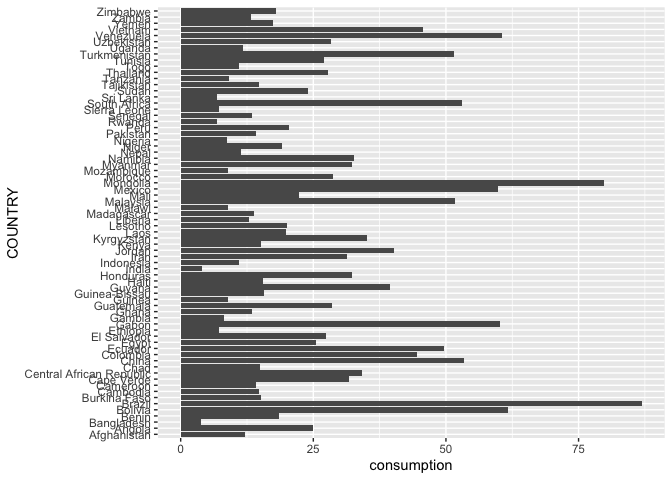
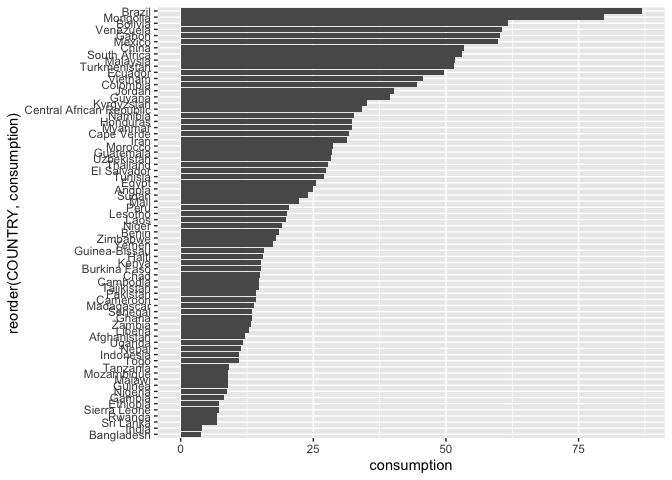
methods done

Changed region(s): [[0.2812, 0.0, 0.9688, 0.9375], [0.0, 0.0, 0.25, 0.9375]]

diff --git a/Midterm/Midterm.md b/Midterm/Midterm.md
@@ -5,103 +5,71 @@ due 10/22/2021
 
 ## Introduction
 
+(provide background on your dataset and formulated question)
+
 ## Methods
+
+In order to answer the main question, multiple datasets were acquired
+from various sources. The data can be organized into 3 categories:
+anemia data, meat consumption data, and country data.
+
+# Anemia Data
+
+The data sets related to the prevalence of anemia in 15-49 year old
+women in low and middle income countries (LMIC) were exported from
+ghdx.healthdata.org. This data was collected by the Institute of Health
+Metrics and Evaluation with the funding from the Bill and Melinda Gates
+Foundation between January 2000 and December 2019. It was published in
+2021. There were three different csv files in this set, one for mild
+anemia, one for moderate anemia, and one for severe anemia. The data
+sets detailed the prevalence of each kind of anemia every year in 82
+LMICs at a 5x5km level. These csv’s were downloaded from the site
+manually and read into data tables in the R code. From there, variable
+names were changed to improve ease of merging. Instead of keeping the
+data at the 5x5km level, the mean anemia prevalence was found by country
+and year. Finally, the three data tables (moderate, mild, and severe)
+were merged into the data table “TotalAnemia”. This table included all
+82 countries and the mild, moderate, and severe percentages of anemia
+prevalence for every year from 2000 to 2019. No values were found to be
+missing or unreasonable.
+
+# Meat Consumption Data
+
+The data set related to meat food supply quantity in terms of kilograms
+per capita per year was exported from ourworldindata.org. This data was
+sourced from data published by the United Nations Food and Agricultural
+Organization (FAO) in 2020. The data was collected from 1961 to 2017.
+This csv file was also exported manually from the website and read into
+a data table within the R code. It contains data from 215 countries and
+was not found to have any missing values. The data only had 4 variables:
+the country name, 3 letter country code, year, and meat food supply
+quantity; these variables were renamed for ease of use and to match the
+names of the anemia data table.
+
+# country data & final data table
+
+Following preliminary data cleanup and wrangling, the TotalAnemia and
+meatData data tables were merged together by country and year to create
+a new data table: TotalData. All observations from the TotalAnemia data
+table were kept. To add a final level of analysis, a country code data
+set was downloaded and read in by the R code. This csv file was found on
+datahub.io, and lists every country, along with its three letter country
+code, continent, and other identifying information; only the three
+letter code and continent were selcted for. This country code data set
+was then merged with the TotalData set by code, so that every
+observation now included the continent as well.
+
+Final data cleanup and wrangling was now performed. Any observations
+missing meat consumption values were removed. The data table was now
+left with data for 69 LMICs, for a total of 1258 observations. When
+looking at summaries and visualizations of the various variables, no
+data looked unreasonable. The results of these summary statistics are
+printed below:
 
 ## Preliminary Results
 
-``` r
-ggplot(TotalData,aes(x=consumption, y=(mildPct+modPct+sevPct)*100)) +
-  geom_point() +
-  geom_smooth(method= "lm") +
-  ggtitle("Visualizing the Relationship between Anemia & Meat Consumption in Underdeveloped Countries")+
-  ylab('Total Percentage of Women 15-49 with Anemia of any Severity')+
-  xlab('Meat Consumption (kg/capital/year')
-```
-
-    ## `geom_smooth()` using formula 'y ~ x'
-
-![](Midterm_files/figure-gfm/unnamed-chunk-1-1.png)<!-- -->
-
-``` r
-TotalData %>%
-  filter("Asia"== CONTINENT) %>%
-  ggplot(aes(x=year, y=(mildPct+modPct+sevPct)*100)) +
-    facet_wrap(~COUNTRY, nrow= 8) +
-    geom_point() +
-    geom_smooth(method= "lm")+
-    ggtitle("Anemia in Young Women in underdeveloped Asian Countries")+
-    theme(axis.text.x = element_text(angle = 45))+
-    ylab('Total Percentage of Women 15-49 with Anemia of any Severity')
-```
-
-    ## `geom_smooth()` using formula 'y ~ x'
-
-![](Midterm_files/figure-gfm/unnamed-chunk-1-2.png)<!-- -->
-
-``` r
-TotalData %>%
-  filter("Africa"== CONTINENT) %>%
-  ggplot(aes(x=year, y=(mildPct+modPct+sevPct)*100)) +
-    facet_wrap(~COUNTRY, nrow= 8) +
-    geom_point() +
-    geom_smooth(method= "lm")+
-    ggtitle("Anemia in Young Women in underdeveloped African Countries")+
-    theme(axis.text.x = element_text(angle = 45))+
-    ylab('Total Percentage of Women 15-49 with Anemia of any Severity')
-```
-
-    ## `geom_smooth()` using formula 'y ~ x'
-
-![](Midterm_files/figure-gfm/unnamed-chunk-1-3.png)<!-- -->
-
-``` r
-TotalData %>%
-  filter("South America"== CONTINENT) %>%
-  ggplot(aes(x=year, y=(mildPct+modPct+sevPct)*100)) +
-    facet_wrap(~COUNTRY, nrow= 3) +
-    geom_point() +
-    geom_smooth(method= "lm")+
-    ggtitle("Anemia in Young Women in underdeveloped South American Countries")+
-    theme(axis.text.x = element_text(angle = 45))+
-    ylab('Total Percentage of Women 15-49 with Anemia of any Severity')
-```
-
-    ## `geom_smooth()` using formula 'y ~ x'
-
-![](Midterm_files/figure-gfm/unnamed-chunk-1-4.png)<!-- -->
-
-``` r
-TotalData %>%
-  filter("North America"== CONTINENT) %>%
-  ggplot(aes(x=year, y=(mildPct+modPct+sevPct)*100)) +
-    facet_wrap(~COUNTRY, nrow= 3) +
-    geom_point() +
-    geom_smooth(method= "lm")+
-    ggtitle("Anemia in Young Women in underdeveloped North American Countries")+
-    theme(axis.text.x = element_text(angle = 45))+
-    ylab('Total Percentage of Women 15-49 with Anemia of any Severity')
-```
-
-    ## `geom_smooth()` using formula 'y ~ x'
-
-![](Midterm_files/figure-gfm/unnamed-chunk-1-5.png)<!-- -->
-
-``` r
-#looking at averages for each country
-
-TotalDataAvg = TotalData[,.(
-  consumption = mean(consumption,na.rm = TRUE),
-  mildPct = mean(mildPct,na.rm = TRUE),
-  modPct = mean(modPct,na.rm = TRUE),
-  sevPct = mean(sevPct,na.rm = TRUE)
-),by = "COUNTRY"]
-
-TotalDataAvg %>%
-  arrange(consumption) %>%
-  ggplot(aes(x=consumption, y=COUNTRY))+
-  geom_bar(stat= "identity") 
-```
-
-![](Midterm_files/figure-gfm/unnamed-chunk-2-1.png)<!-- -->
+(provide summary statistics in tabular form and publication-quality
+figures, take a look at the kable function from knitr to write nice
+tables in Rmarkdown)
 
 ## Conclusion
